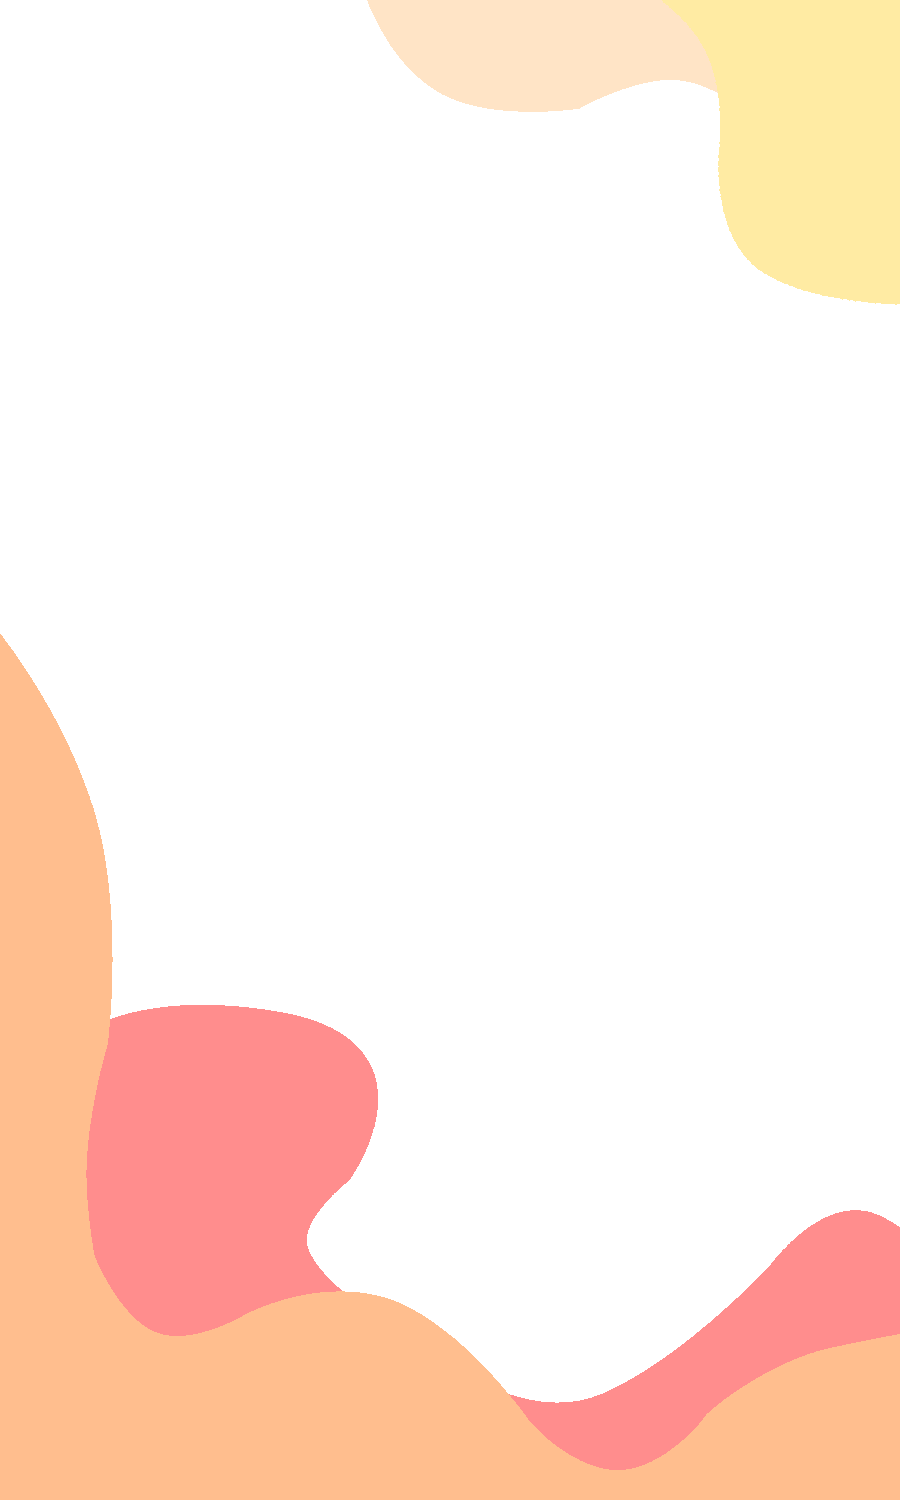
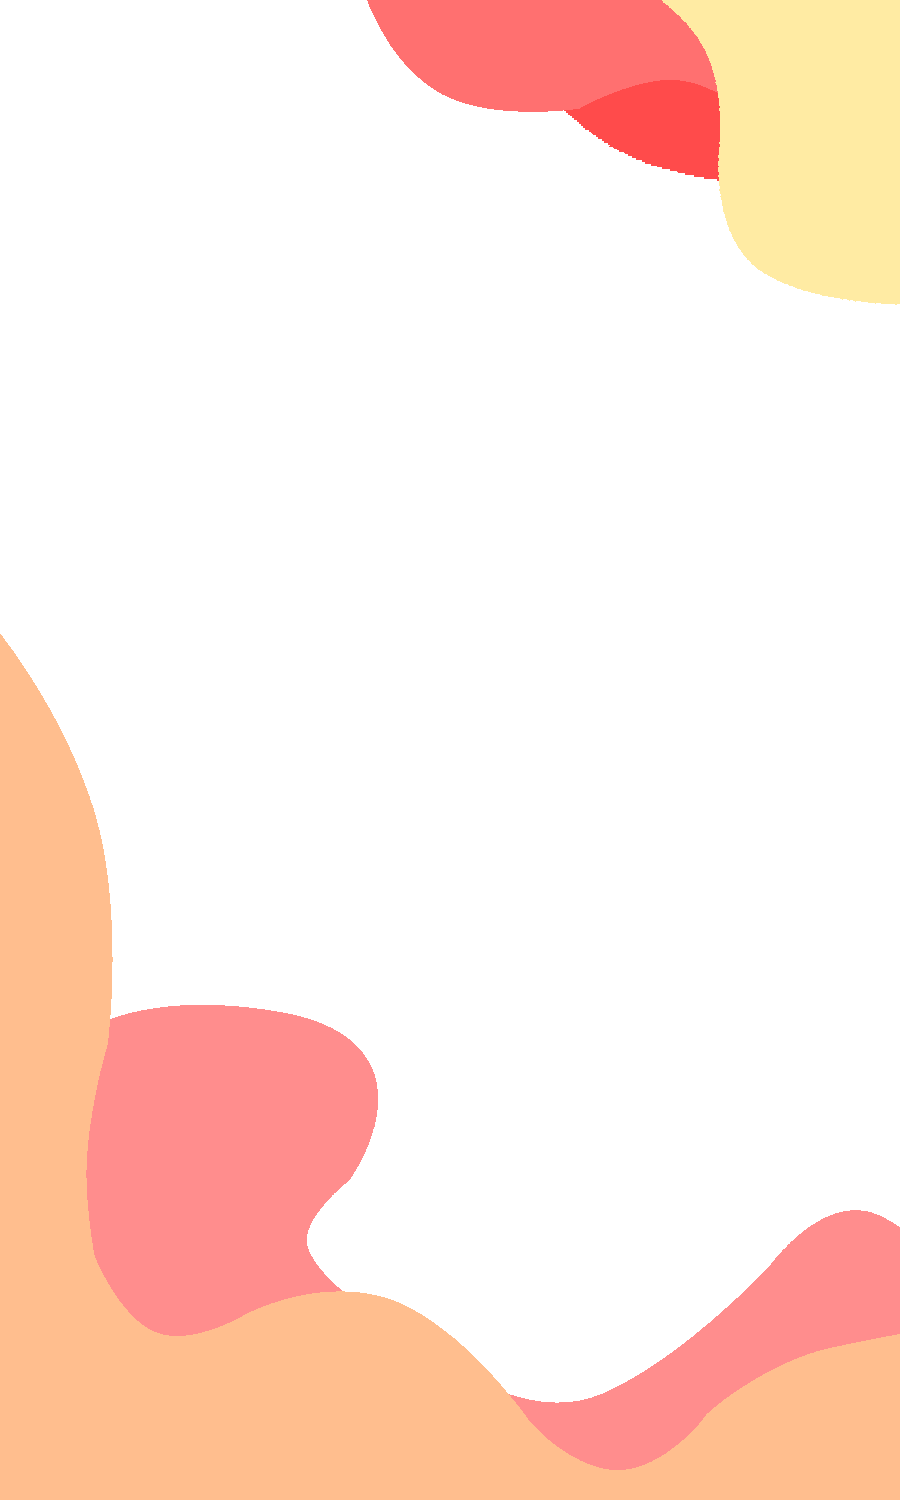
updated ui

Changed region(s): [[0.4044, 0.0, 0.8089, 0.1227]]

diff --git a/client/Components/DecisionScreen.js b/client/Components/DecisionScreen.js
@@ -41,35 +41,35 @@ export default class DecisionScreen extends React.Component{
 		let conclusion;
 
 		if (this.state.edible) {
-			conclusion = "No allergies found! Eat up!";
+			conclusion = "SAFE TO EAT!";
 		} else {
-			conclusion = "You are allergic to these!";
+			conclusion = "DO NOT EAT!";
 		}
 		return(
-				<LinearGradient colors={['rgba(255,190,69,100)', 'rgba(255,172,128,100)']} style={{alignItems: 'center', flex: 1}}>
-					<ImageBackground style={styles.food_image} source={require('../images/food_sample.jpg')}>
-						<TouchableOpacity style={styles.button} onPress={() => navigate('Home')}>
-							<Ionicons name='ios-arrow-back' size={50} color='black'/>
-						</TouchableOpacity>
-					</ImageBackground>
-					<View style={styles.allergy}>
-						<FlatList
-						data = {this.state.found}
-						ListHeaderComponent={() => (
-							<Text style={styles.allergy_header}>Allergens: </Text>
-						)}
-						ListFooterComponent={() => (
+				<LinearGradient colors={['rgba(255,190,69,100)', 'rgba(255,153,133,100)']} style={{alignItems: 'center', flex: 1}}>
+					<ImageBackground style={styles.background} source={require('../images/splotches_1.png')}>
+						<ImageBackground style={styles.food_image} source={require('../images/food_sample.jpg')}>
+							<TouchableOpacity style={styles.button} onPress={() => navigate('Home')}>
+								<Ionicons name='md-arrow-back' size={50} color='rgba(255,255,255,0.85)'/>
+							</TouchableOpacity>
+						</ImageBackground>
+						<View style={styles.allergy}>
 							<Text style={styles.allergy_footer}>
 								{conclusion} 
 							</Text>
-						)}
-						keyExtractor={item => item.name}
-						renderItem={({ item, index, separators }) => (
-							<View style={styles.item}>
-								<Text style={styles.title}>{item.name}</Text>
-							</View>
-						)}></FlatList>
-					</View>
+							<FlatList
+							data = {this.state.found}
+							ListHeaderComponent={() => (
+								<Text style={styles.allergy_header}>Allergens: {"\n"}</Text>
+							)}
+							keyExtractor={item => item.name}
+							renderItem={({ item, index, separators }) => (
+								<View style={styles.item}>
+									<Text style={styles.title}>{item.name}</Text>
+								</View>
+							)}></FlatList>
+						</View>
+					</ImageBackground>
 				</LinearGradient>
 		);
 	}
@@ -81,12 +81,19 @@ const styles = StyleSheet.create({
 		width: 420
 	},
 	allergy:{
-		flex: 1.75
+		flex: 1.75,
+		marginLeft: 50
+	},
+	background:{
+		flex: 1
 	},
 	allergy_footer:{
-		fontSize: 35,
+		fontSize: 45,
 		flexDirection: 'column',
-		flex: 1
+		flex: 1,
+		fontWeight: 'bold',
+		marginTop: 30,
+		width: 300
 	},
 	allergy_header:{
 		fontSize: 25,
@@ -104,10 +111,10 @@ const styles = StyleSheet.create({
   		borderRadius: 50,
 		width: 50,
 		height: 50,
-		elevation: 5,
-		backgroundColor: 'rgba(255,197,110,100)',
 		alignItems: 'center',
-		justifyContent: 'center'
+		justifyContent: 'center',
+		borderWidth: 5,
+		borderColor: 'rgba(255,255,255,0.55)'
 	  },
 	title:{
 		fontSize:20,

diff --git a/client/App.js b/client/App.js
@@ -49,7 +49,7 @@ class HomeScreen extends React.Component {
 			    			</Text>
 			    		</TouchableOpacity>
 			    		<TouchableOpacity style={styles.button} onPress={() => navigate('Profile')}>
-			    			<Foundation name='pencil' size={50} color='rgba(255,255,255,0.5)'/>
+			    			<Ionicons name='md-person' size={50} color='rgba(255,255,255,0.65)'/>
 			    		</TouchableOpacity>
 			    	</View>
 		    	</ImageBackground>
@@ -75,7 +75,7 @@ const styles = StyleSheet.create({
 	buttonText:{
 		fontSize: 40,
 		fontWeight: 'bold',
-		color: 'rgba(255,255,255,0.5)'
+		color: 'rgba(255,255,255,0.65)'
 
 	},
 	logoIcon:{
@@ -91,25 +91,23 @@ const styles = StyleSheet.create({
 	},
 	mainButton:{
 		borderRadius: 500,
-		marginTop: 50,
 		width: 275,
 		height: 275,
 		marginTop: 200,
 		alignItems: 'center',
 		justifyContent: 'center',
 		borderWidth: 10,
-		borderColor: 'rgba(255,255,255,0.5)'
+		borderColor: 'rgba(255,255,255,0.35)'
 	},
 	button:{
 		borderRadius: 50,
-		marginTop: 50,
 		width: 80,
 		height: 80,
-		marginTop: 100,
+		marginTop: 125,
 		alignItems: 'center',
 		justifyContent: 'center',
 		borderWidth: 7,
-		borderColor: 'rgba(255,255,255,0.5)'
+		borderColor: 'rgba(255,255,255,0.35)'
 	},
 	ImageIconStyle:{
 		padding: 10,
